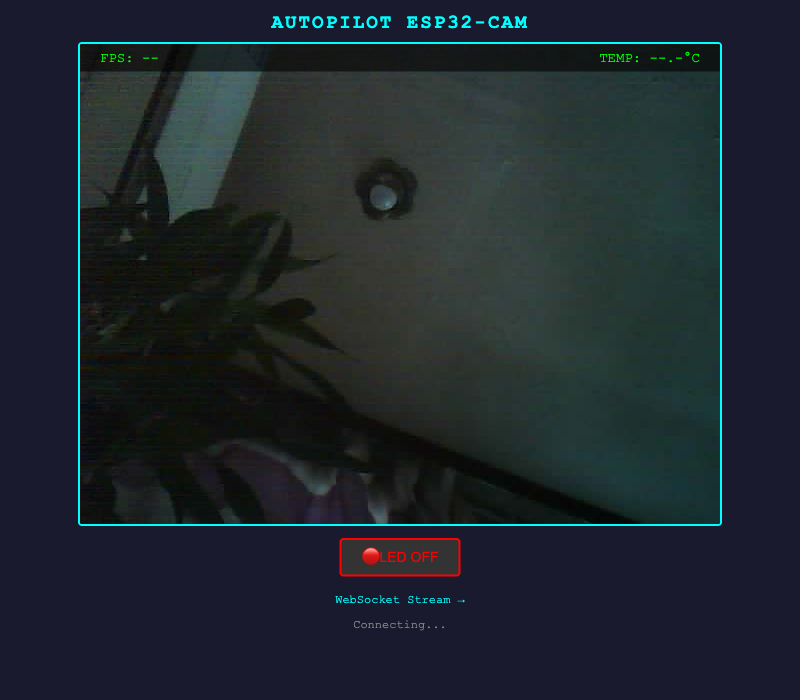
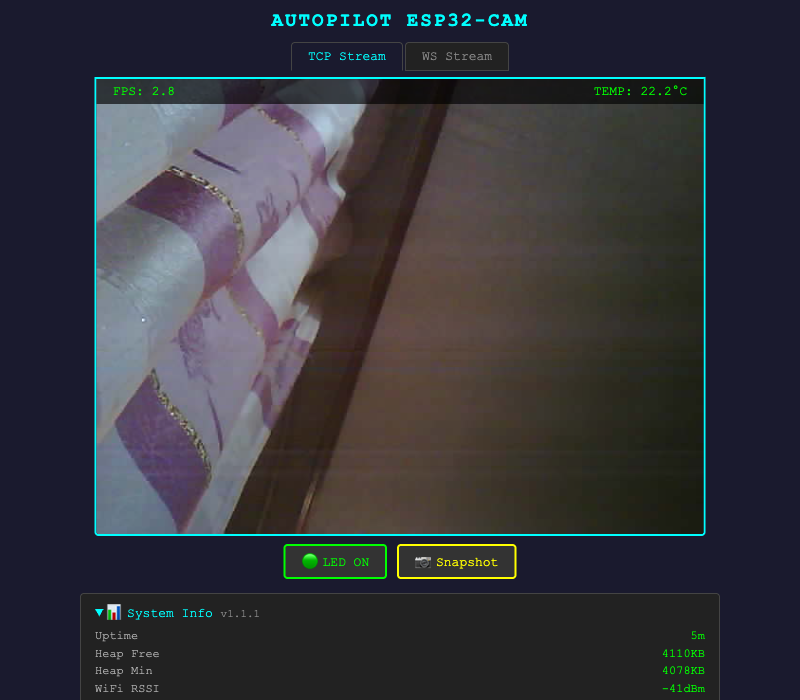
docs: update screenshots for v1.1.1 unified dashboard
- mjpeg-stream.png: TCP tab with HUD + System Info v1.1.1
- ws-stream.png: WS tab with quality/resolution controls
- led-on.png: LED ON state
- api-status.png: API response
- take_screenshots.py: capture WS tab via tab click instead of /stream/ws

diff --git a/tools/take_screenshots.py b/tools/take_screenshots.py
@@ -1,6 +1,7 @@
 #!/usr/bin/env python3
 """Take screenshots of ESP32-CAM web pages for release documentation."""
 import os
+import signal
 import sys
 import time
 
@@ -35,15 +36,18 @@ def take_screenshot(context, url, path, wait_secs=5, action=None):
         page.close()
 
 try:
-    # Screenshot 1: MJPEG stream page
-    print(f"[1/4] Opening MJPEG page: http://{DEVICE_IP}/")
+    # Screenshot 1: Unified dashboard — TCP tab (default)
+    print(f"[1/4] Dashboard (TCP tab): http://{DEVICE_IP}/")
     path1 = os.path.join(SCREENSHOT_DIR, "mjpeg-stream.png")
     take_screenshot(context, f"http://{DEVICE_IP}/", path1, wait_secs=5)
 
-    # Screenshot 2: WebSocket stream page
-    print(f"[2/4] Opening WebSocket page: http://{DEVICE_IP}/stream/ws")
+    # Screenshot 2: Unified dashboard — WS tab
+    print(f"[2/4] Dashboard (WS tab): http://{DEVICE_IP}/")
     path2 = os.path.join(SCREENSHOT_DIR, "ws-stream.png")
-    take_screenshot(context, f"http://{DEVICE_IP}/stream/ws", path2, wait_secs=5)
+    def switch_to_ws(page):
+        page.click(".tab >> text=WS Stream")
+        time.sleep(5)
+    take_screenshot(context, f"http://{DEVICE_IP}/", path2, wait_secs=3, action=switch_to_ws)
 
     # Screenshot 3: LED ON state
     print("[3/4] Toggling LED ON for screenshot...")
@@ -67,8 +71,16 @@ try:
     take_screenshot(context, f"http://{DEVICE_IP}/api/status", path4, wait_secs=1)
 
     print("\nAll screenshots saved to docs/images/")
-    print("Done!")
+    print("Done! Browser stays open.")
 
+    # Keep browser open per patchright rules
+    signal.signal(signal.SIGINT, lambda *_: None)
+    signal.signal(signal.SIGTERM, lambda *_: None)
+    while True:
+        time.sleep(3600)
+
+except (KeyboardInterrupt, SystemExit):
+    pass
 finally:
     context.close()
     pw.stop()
